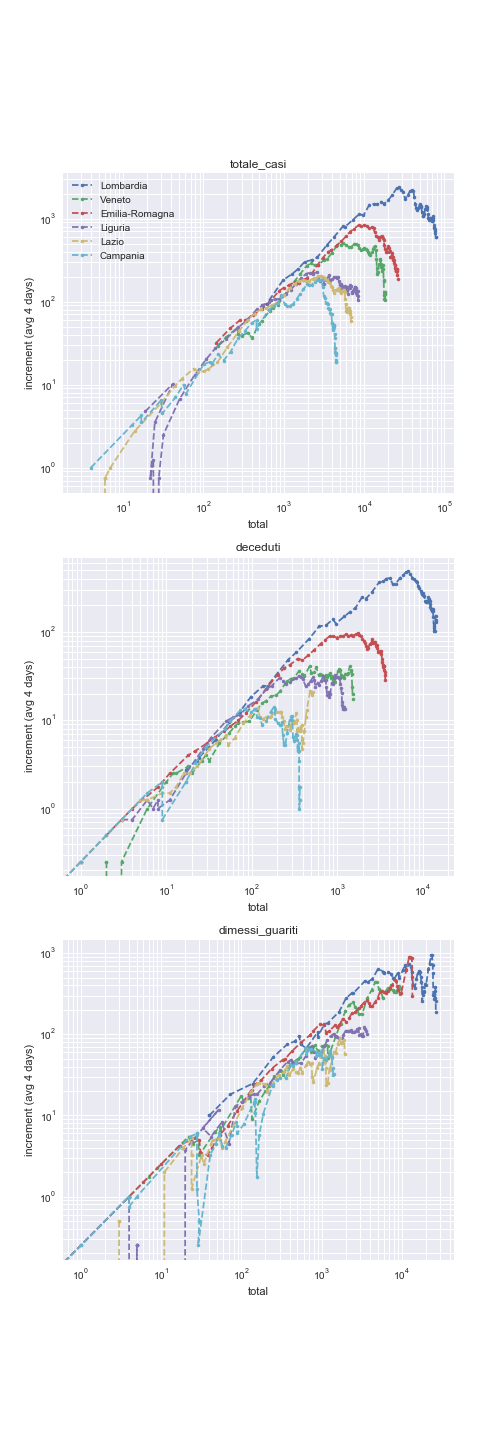
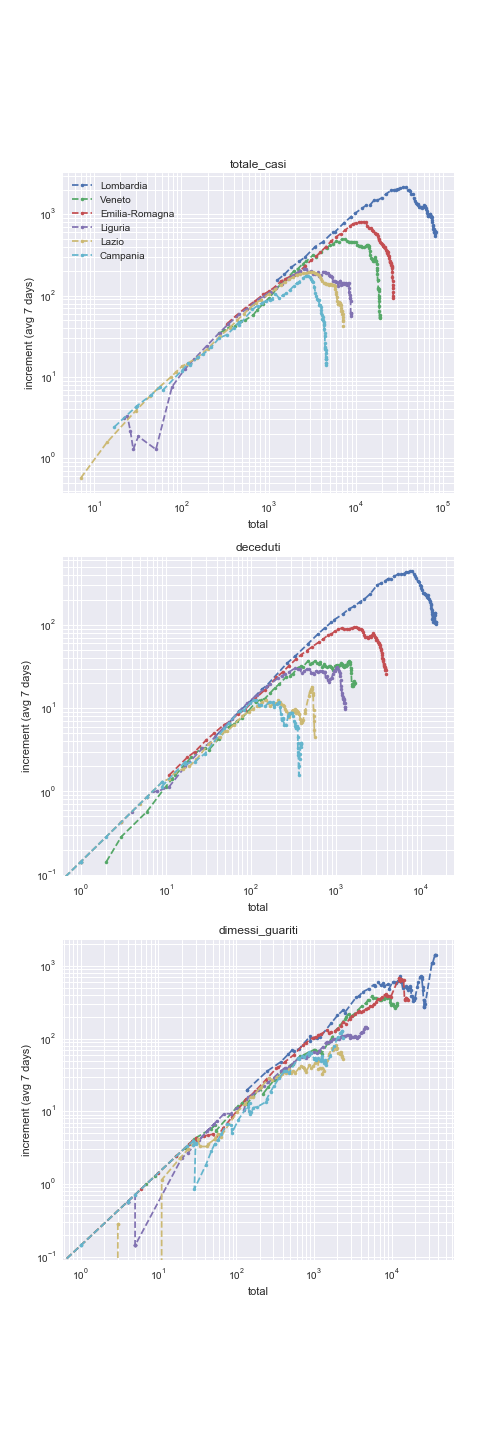
update

diff --git a/plot_ita.py b/plot_ita.py
@@ -118,7 +118,7 @@ lista.append('Bologna')
 #lista.append('Udine')
 lista.append('Padova')
 lista.append('Milano')
-lista.append('Lodi')
+#lista.append('Lodi')
 
 for name in lista:
     c = dati[dati['denominazione_provincia'] == name]['totale_casi'].to_numpy()
@@ -140,13 +140,7 @@ ax[1].set_ylabel('Incremento [%]')
 ax[2].set_ylabel('Tempo raddoppiamento [g]')
 
 
-#start = 0; step = 7
-#xticks = dati[dati['sigla_provincia'] == 'RM'].index
-#fxticks = [ datetime.strptime(date, '%m/%d/%y').strftime('%b %d') for date in list(xticks) ]
-#plt.xticks(x[start::step], xticks[start::step])
-
-start = 0; step = 7
-#plt.xticks(x[start::step], x[start::step])
+start = 0; step = 15 # 7
 for i in range(3):
     ax[i].set_xticks(x[start::step])
     ax[i].xaxis.set_minor_locator(MultipleLocator())
@@ -189,7 +183,7 @@ lista.append('Padova')
 lista.append('Milano')
 lista.append('Bergamo')
 lista.append('Brescia')
-lista.append('Lodi')
+#lista.append('Lodi')
 
 for n, name in enumerate(lista):
     print(name)
@@ -240,7 +234,7 @@ rindex = range(len(index))
 xticks = rindex
 fxticks = [ date.strftime('%b %d') for date in list( index ) ]
 
-step=7
+step=15 #7
 for i in range(3):
     ax[i].set_xlim( 0, xt.max()+1)
     ax[i].set_xticks(xticks[::step])
@@ -283,7 +277,7 @@ plt.close('all')
 mpl.style.use('seaborn')
 fig, ax = plt.subplots( 2, len(campi), figsize=(18, 10))
 
-start = 0; step = 4
+start = 0; step = 7
 
 lista = []
 lista.append('Lombardia')
@@ -349,7 +343,7 @@ fxticks = [ date.strftime('%b %d') for date in list( index ) ]
 #plt.xticks(x[start::step], xticks[start::step])
 
 #plt.xticks(x[start::step], x[start::step])
-step=7
+step=15  # 7
 for i in range(2):
     for j in range(len(campi)):
         ax[i,j].set_xlim( 0, xt.max()+1)
@@ -392,7 +386,7 @@ plt.close('all')
 mpl.style.use('seaborn')
 fig, ax = plt.subplots( len(campi), 1, figsize=(7, 20))
 
-start = 0; step = 4
+start = 0; step = 7
 
 for i, campo in enumerate(campi):
     print('--- ',campo,' ---')
